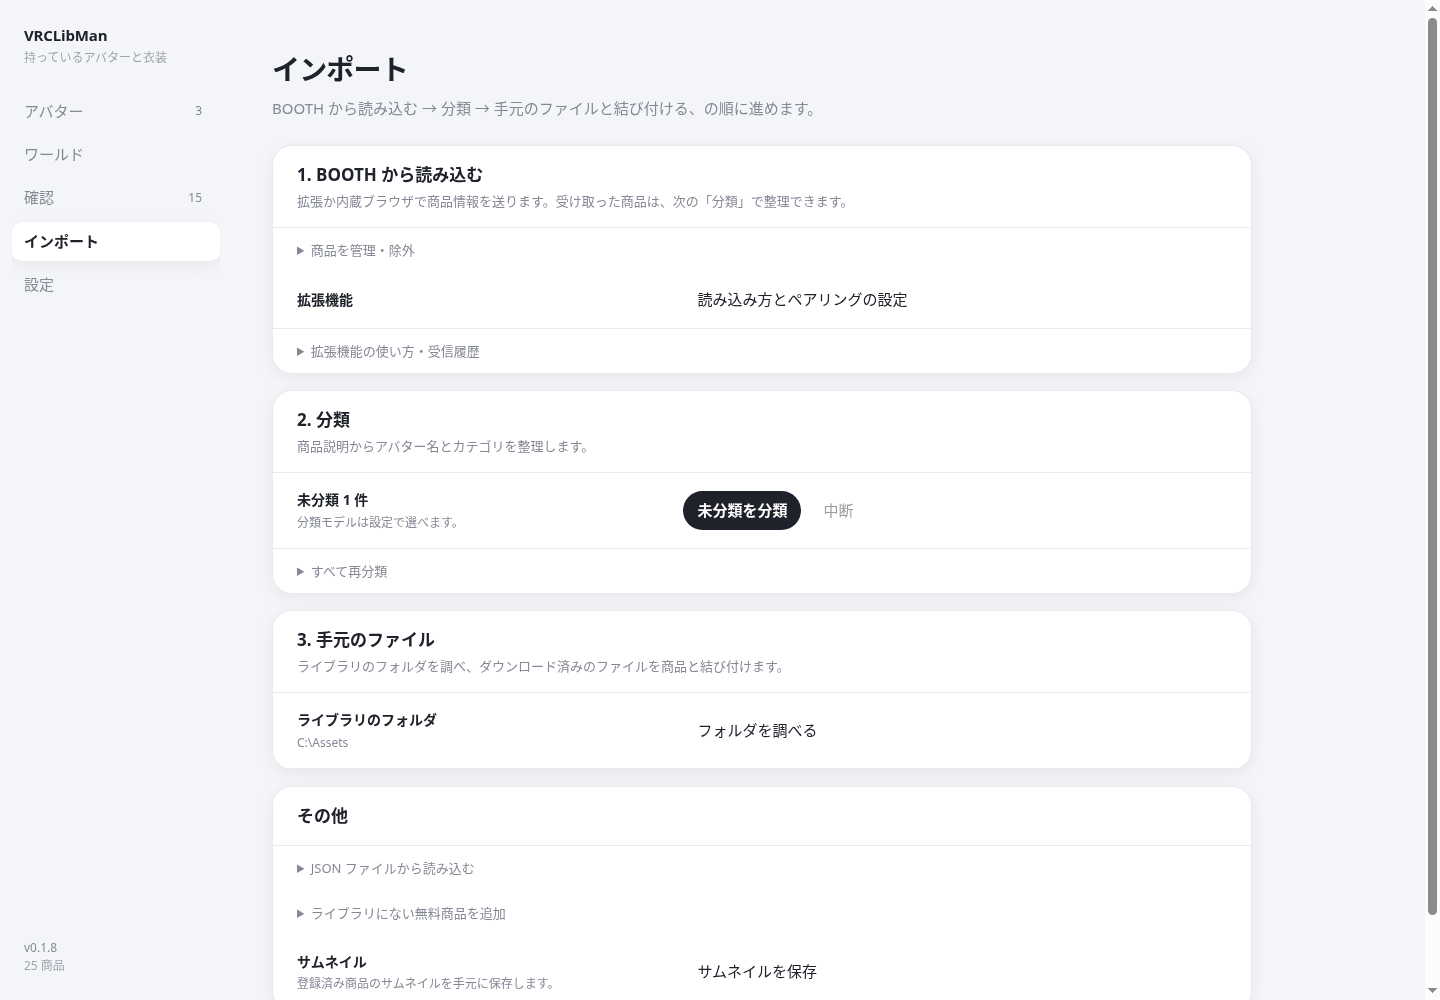
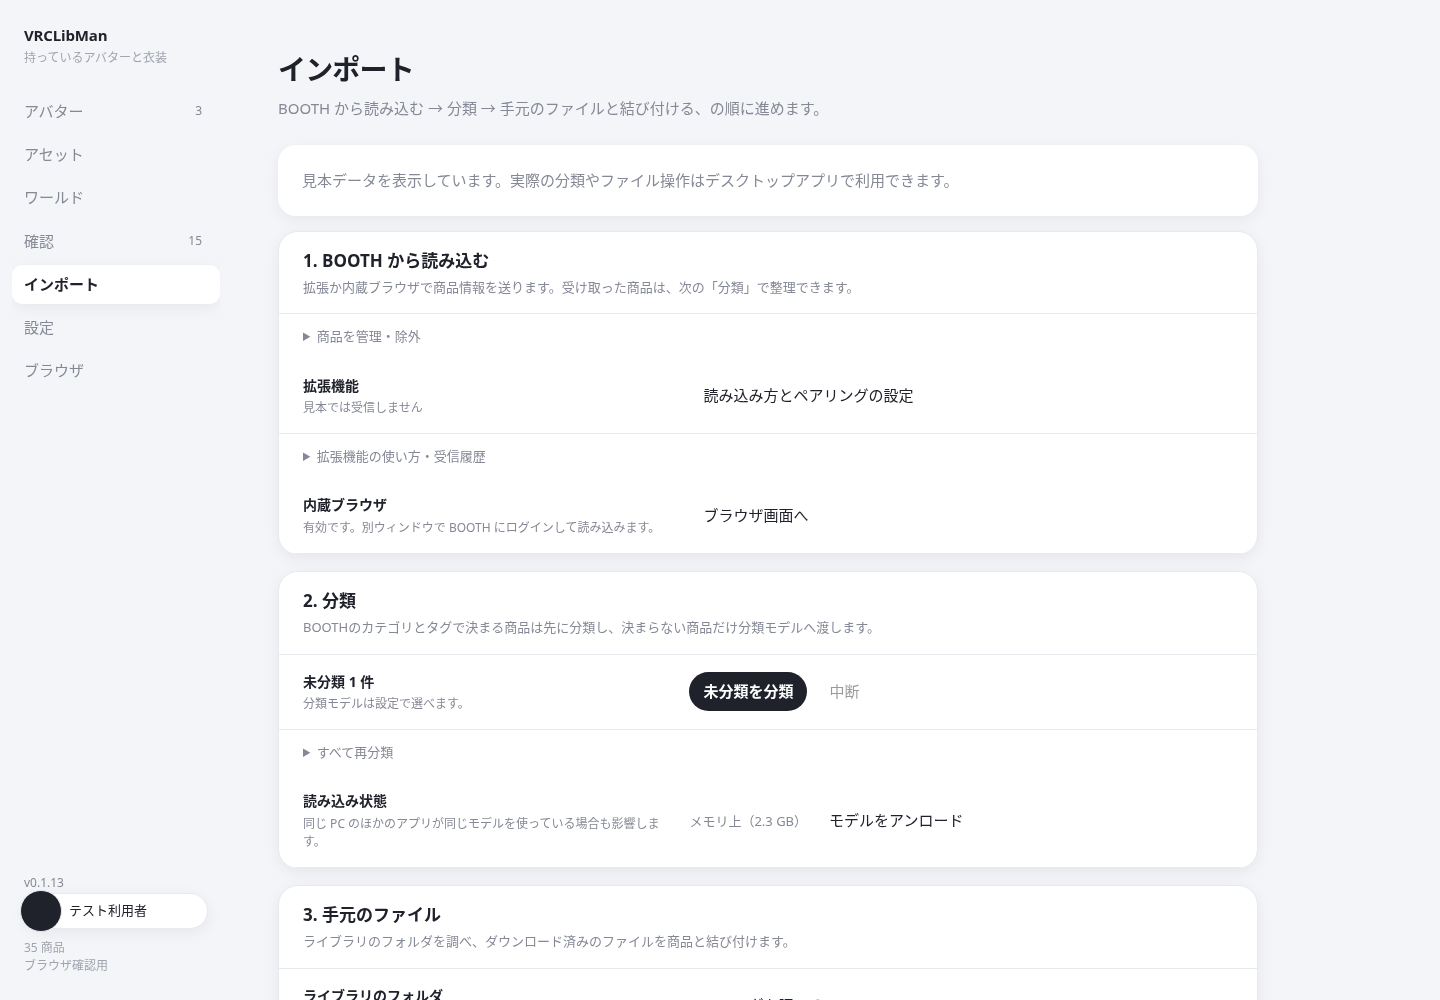
docs: 更新した使い方と画面例を追加

diff --git a/docs/verification.md b/docs/verification.md
@@ -27,6 +27,8 @@
 
 従来のガイドは、実装との照合と、見本データによるブラウザ上の画面操作・撮影を行ったものです。これだけでは Windows / macOS へのインストール、ログイン済み BOOTH の読み込み、実モデルの分類、実ファイルの移動・コピーを確認したことにはなりません。
 
+2026-10-29 に `ba8b4c9` を基準とするガイド更新で、Linux の Chromium と `npm run dev` の見本データを使い、画面を撮影しました。アセットの未ダウンロード行、商品除外の解除、内蔵ブラウザ画面の操作を見本で確認し、`npm run build` と README・ガイドのローカルリンク確認を実行しました。アプリは v0.1.13、拡張は v0.1.15 です。BOOTH へのログイン、実ファイルの取得・移動、実画像の取得は確認していません。
+
 ## 今後の記録方法
 
 配布前の確認では、対象コミット・アプリと拡張の版・OS・端末構成・実施日・手順・結果を記録してください。見本、テスト、実機で確かめた範囲を区別します。
